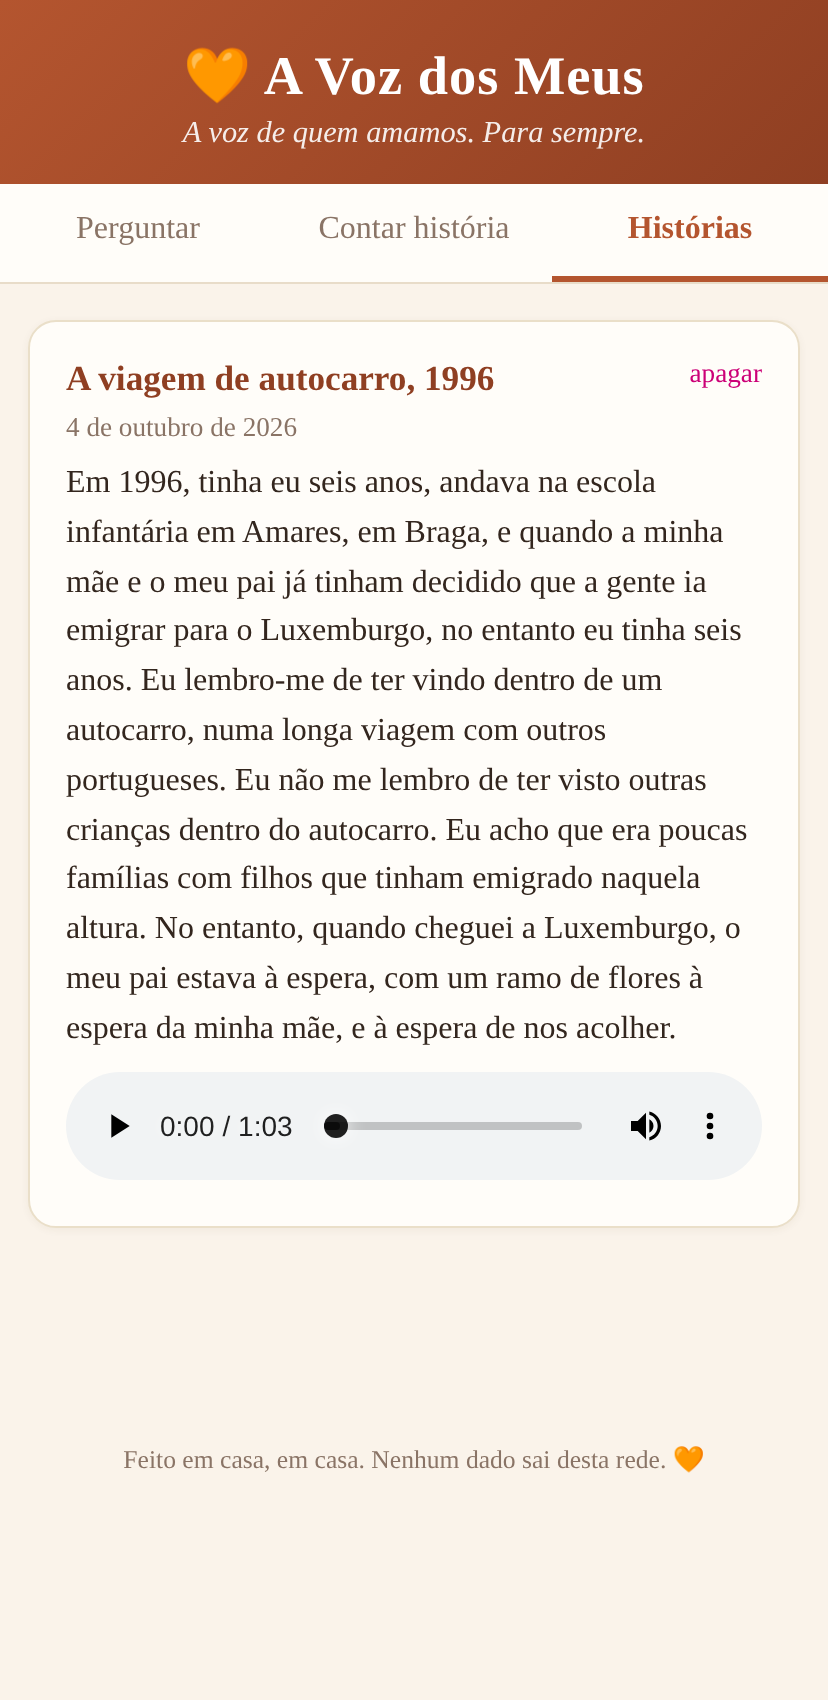
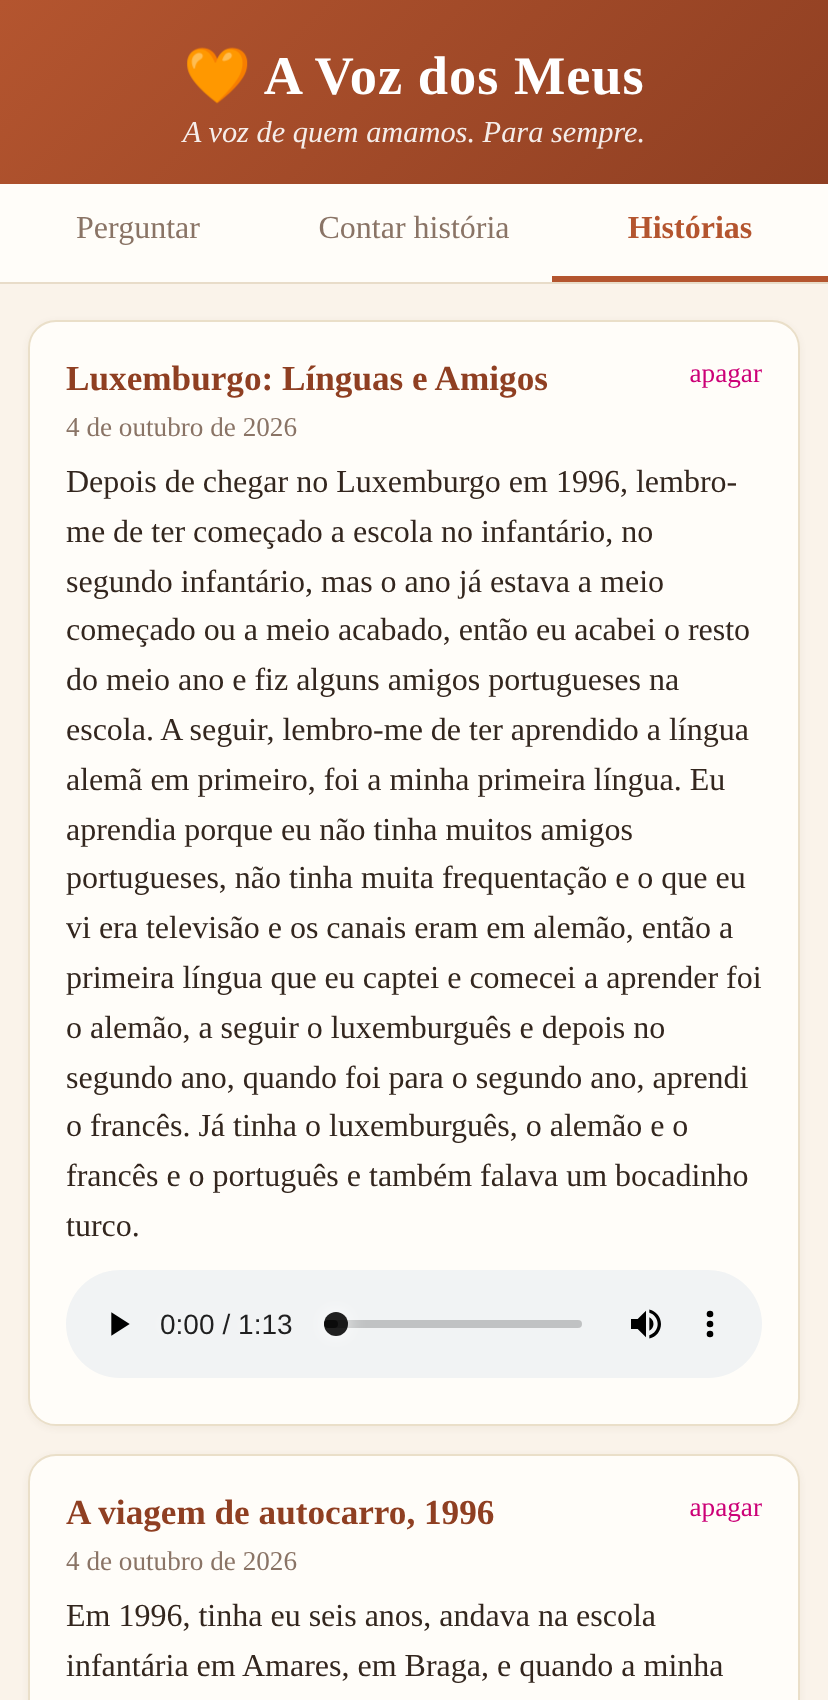
Second real story (languages in Luxembourg), refreshed library shot

diff --git a/test_2stories.py b/test_2stories.py
@@ -1,0 +1,24 @@
+#!/usr/bin/env python3
+"""Verify memory with 2 stories: cross-story + single-story + trap questions."""
+import json, time, urllib.request
+
+BASE = "https://tariff-ventures-income-insights.trycloudflare.com"
+
+def post(ep, payload, timeout=300):
+    req = urllib.request.Request(BASE + ep, data=json.dumps(payload).encode(),
+                                 headers={"Content-Type": "application/json"})
+    return json.load(urllib.request.urlopen(req, timeout=timeout))
+
+questions = [
+    "Quais línguas é que aprendeste na escola no Luxemburgo?",
+    "Qual foi a tua primeira língua estrangeira?",
+    "Quantos anos tinhas quando chegaste ao Luxemburgo?",
+    "Pai, o que é que comias na escola?",   # trap
+]
+for q in questions:
+    t0 = time.time()
+    r = post("/api/ask", {"question": q})
+    gated = f" [GATED:{r.get('gated')}]" if r.get("gated") else ""
+    print(f"\nQ ({time.time()-t0:.0f}s, score={r.get('best_score')}{gated}): {q}")
+    print("A:", r["answer"][:350])
+    print("sources:", r.get("sources"))

diff --git a/reshoot_stories.py b/reshoot_stories.py
@@ -1,0 +1,23 @@
+#!/usr/bin/env python3
+"""Regenerate the stories-list screenshot (now 2 stories)."""
+import time
+from playwright.sync_api import sync_playwright
+
+URL = "https://tariff-ventures-income-insights.trycloudflare.com/"
+OUT = "/opt/data/projet/avozdaavo/docs"
+CHROME = "/opt/data/home/.cache/ms-playwright/chromium-1223/chrome-linux64/chrome"
+
+with sync_playwright() as p:
+    b = p.chromium.launch(executable_path=CHROME, headless=True,
+                          args=["--no-sandbox", "--disable-dev-shm-usage"])
+    ctx = b.new_context(viewport={"width": 414, "height": 850},
+                        device_scale_factor=2, is_mobile=True, has_touch=True,
+                        locale="pt-PT")
+    page = ctx.new_page()
+    page.goto(URL, wait_until="networkidle", timeout=60000)
+    time.sleep(2)
+    page.evaluate("tab('list')")
+    time.sleep(2)
+    page.screenshot(path=f"{OUT}/shot_stories.png")
+    print("shot_stories regenerated")
+    b.close()
